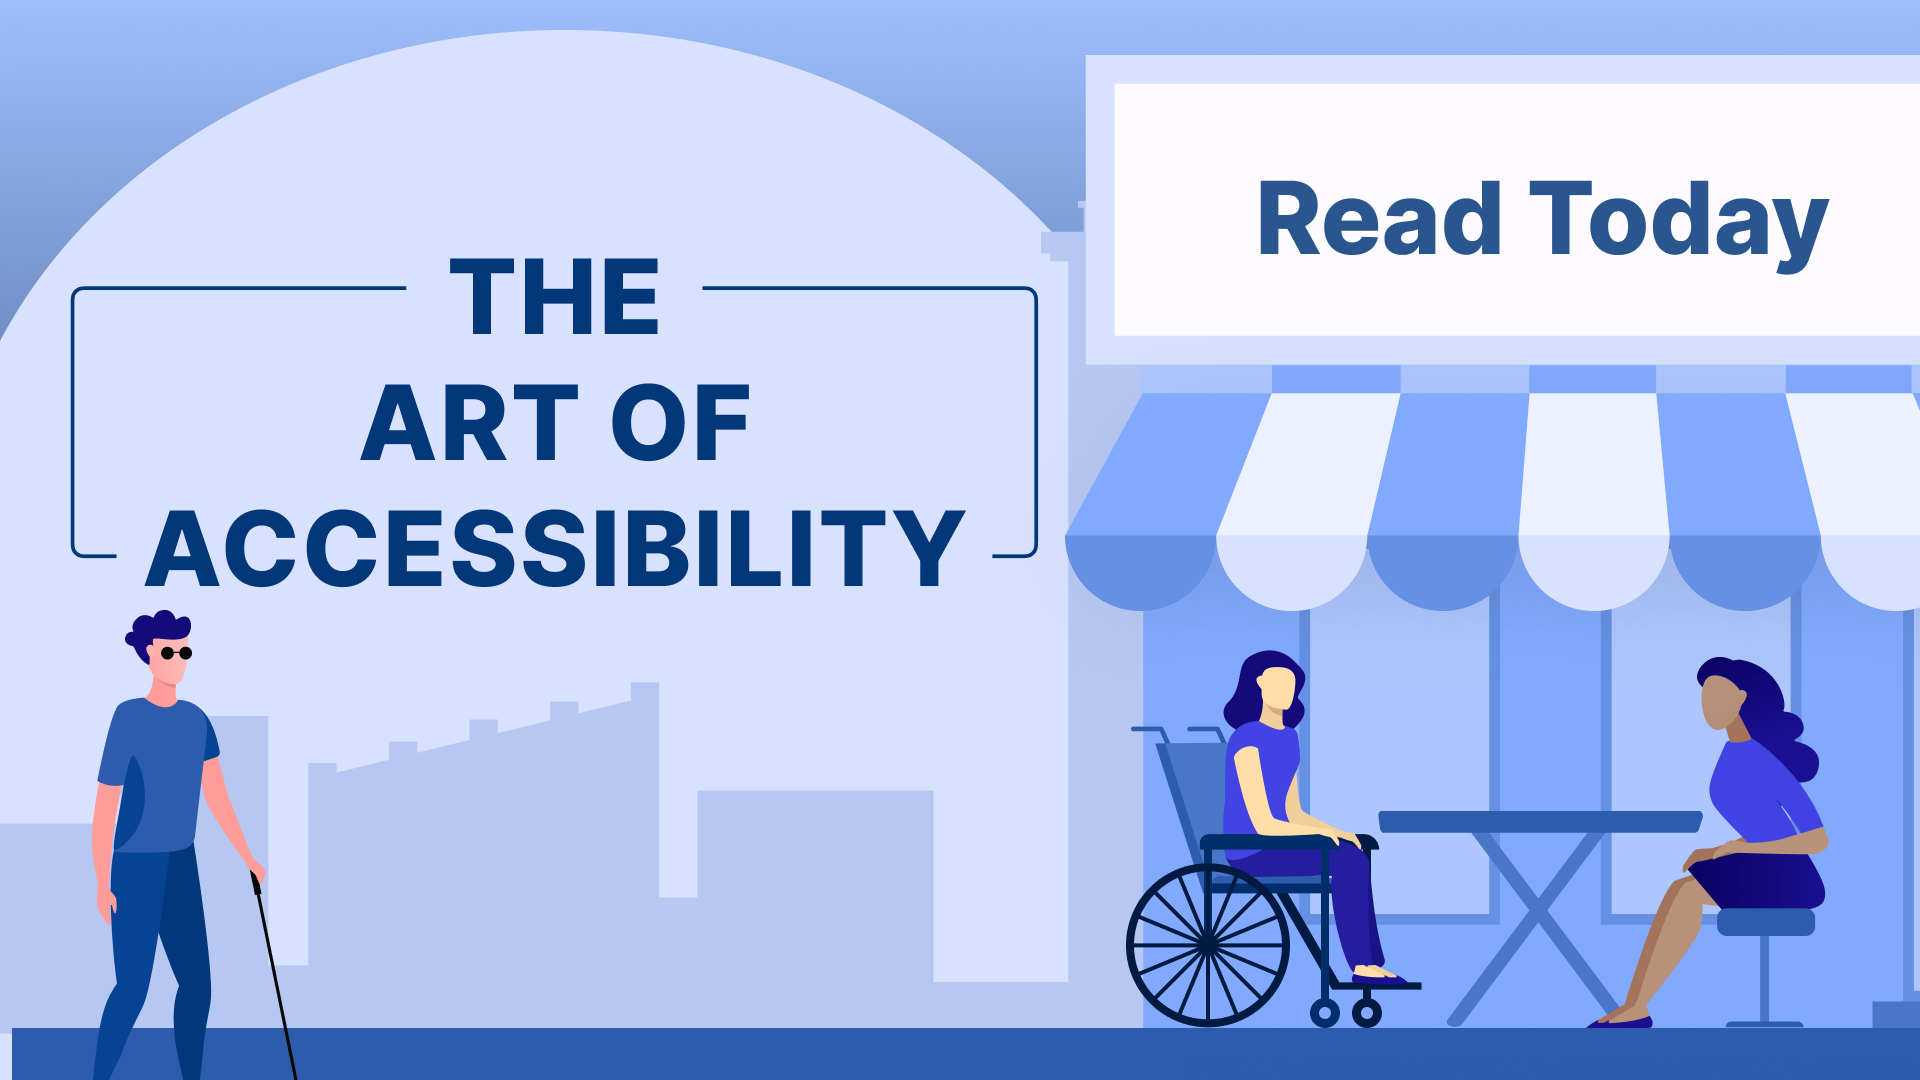
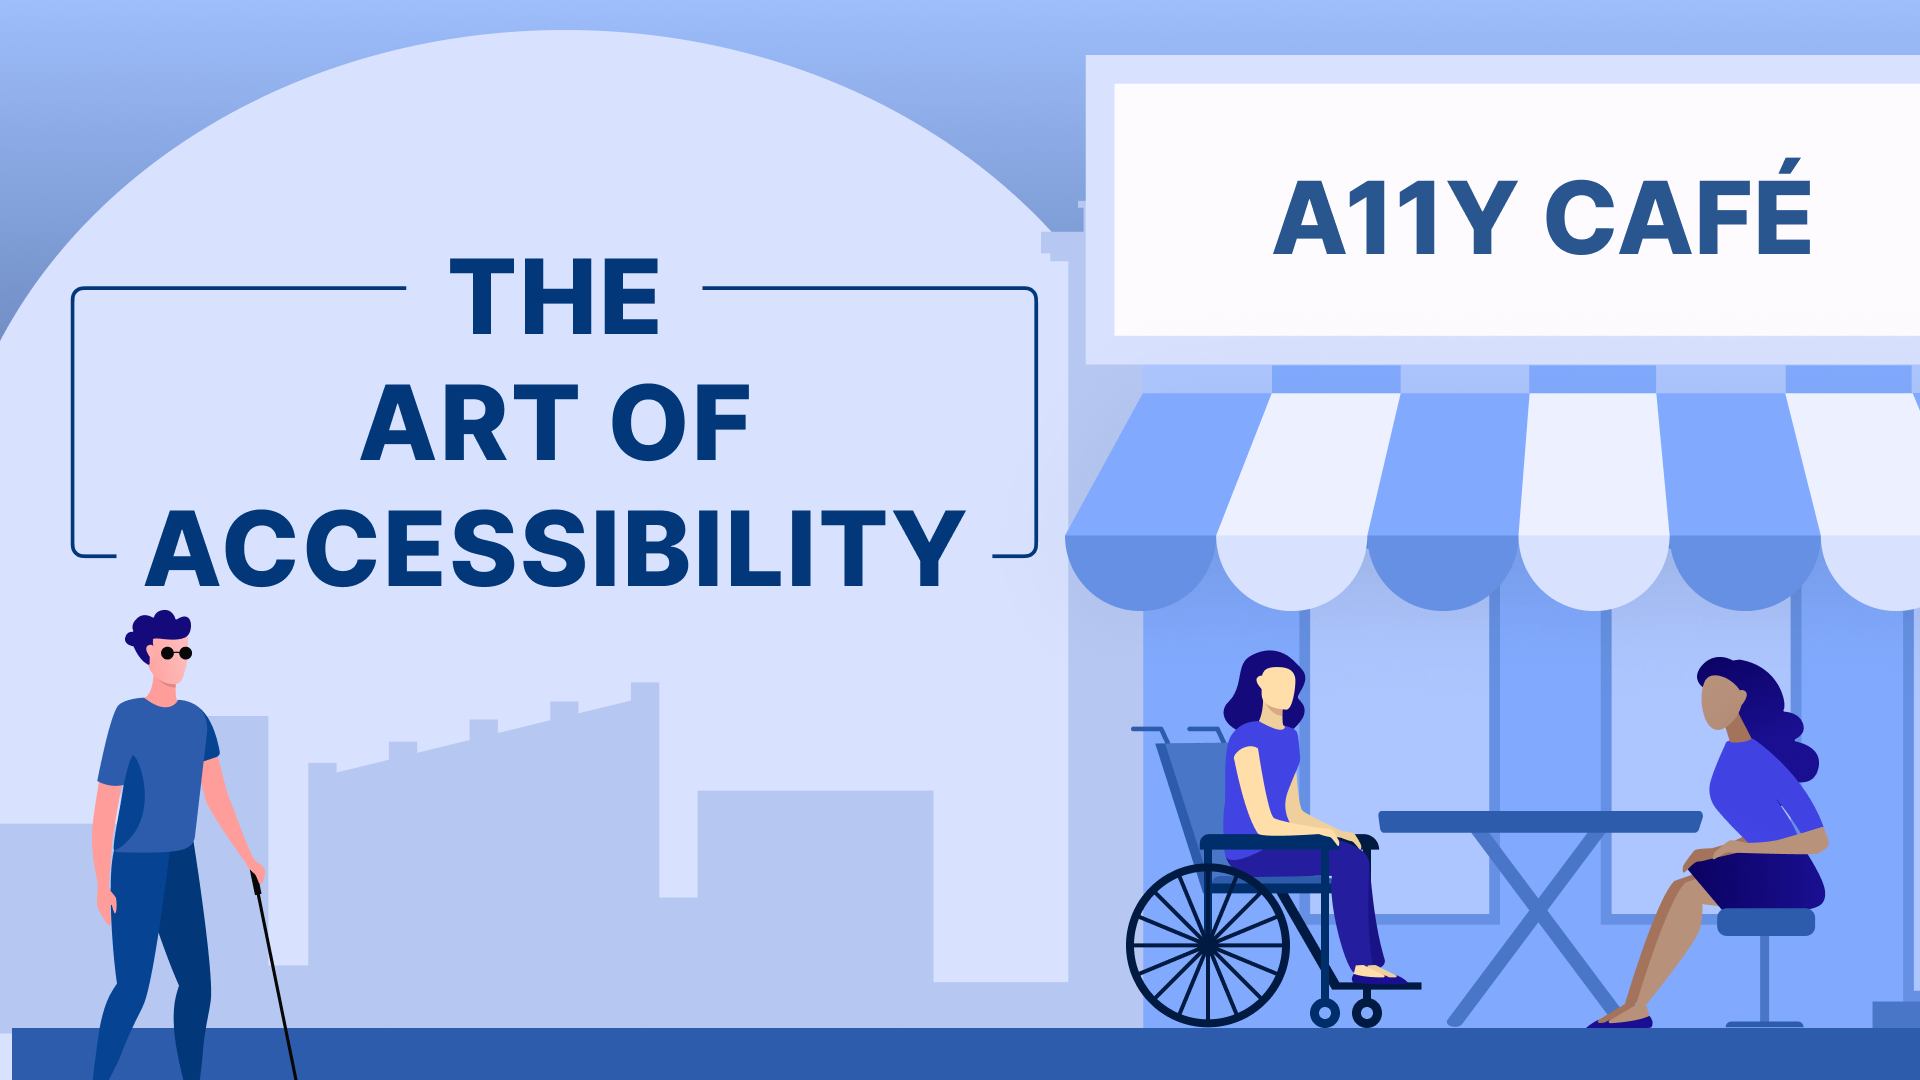
feat: update awards section

Changed region(s): [[0.6562, 0.1528, 0.9688, 0.275]]

diff --git a/src/styles/awards.module.scss b/src/styles/awards.module.scss
@@ -2,130 +2,101 @@
 
 .section {
   margin-bottom: var(--s5);
+  padding-block: var(--s3) var(--s4);
 }
 
-.panel {
+.shelf {
+  display: grid;
+  grid-template-columns: 140px minmax(0, 1fr);
+  align-items: center;
+  gap: var(--s5);
   padding: var(--s5);
-  border: 1px solid var(--line);
-  border-top: 3px solid var(--blue);
-  border-radius: var(--radius-lg);
   background: var(--white);
 }
 
-.heading {
-  display: flex;
-  align-items: center;
-  gap: var(--s3);
-  margin-bottom: var(--s4);
-}
-
-.heading h2 {
-  font-size: var(--title);
-  line-height: 1.25;
-  letter-spacing: -0.035em;
-}
-
-.medal {
-  display: grid;
-  flex: none;
-  place-items: center;
-  width: 48px;
-  height: 48px;
-  border-radius: 50%;
-  background: var(--paper);
-  color: var(--blue);
+.label {
+  margin: 0;
+  font-family: var(--serif);
+  font-size: 1.625rem;
+  font-style: italic;
+  font-weight: 450;
+  line-height: 1.2;
+  letter-spacing: -0.02em;
+  color: var(--muted);
 }
 
 .awards-list {
-  display: grid;
-  grid-template-columns: repeat(3, minmax(0, 1fr));
-  gap: var(--s4);
+  display: flex;
+  align-items: center;
+  justify-content: space-between;
+  gap: var(--s5);
   margin: 0;
   padding: 0;
   list-style: none;
 }
 
-.award {
+.entry {
   display: flex;
   align-items: center;
-  min-width: 0;
-  min-height: 96px;
-  padding: var(--s4);
-  border: 1px solid var(--line);
-  border-radius: var(--radius);
-  background: var(--paper);
-}
-
-.award h3 {
-  width: 100%;
-  font-size: var(--body);
-  font-weight: 600;
-  line-height: 1.4;
-  letter-spacing: -0.02em;
-}
-
-.award a {
-  display: flex;
-  align-items: center;
-  justify-content: space-between;
   gap: var(--s3);
-  min-height: 44px;
+  min-height: 48px;
+  color: var(--ink);
   text-decoration: none;
 }
 
-.award a > svg {
-  width: 20px;
-  height: 20px;
-  color: var(--blue);
+.mark {
+  flex: none;
+  width: 40px;
+  height: 40px;
+  object-fit: contain;
+}
+
+.name {
+  font-size: var(--text);
+  font-weight: 600;
+  line-height: 1.45;
+  text-wrap: balance;
+}
+
+.entry[href] .name {
+  text-decoration: underline;
+  text-decoration-color: var(--line);
+  text-underline-offset: 5px;
+  transition: text-decoration-color var(--quick) var(--ease);
 }
 
 @media (hover: hover) {
-  .award a:hover {
-    color: var(--blue);
-    text-decoration: underline;
-    text-underline-offset: 5px;
+  .entry[href]:hover .name {
+    text-decoration-color: var(--ink);
   }
 }
 
 @media (width <= breakpoints.$tablet) {
-  .awards-list {
-    gap: var(--s3);
+  .shelf {
+    grid-template-columns: minmax(0, 1fr);
+    gap: var(--s4);
   }
 
-  .award {
-    padding: var(--s3);
+  .awards-list {
+    display: grid;
+    grid-template-columns: minmax(0, 1fr) minmax(0, 1fr) minmax(0, 1.4fr);
+    gap: var(--s4);
   }
 }
 
 @media (width <= breakpoints.$mobile) {
-  .panel {
+  .shelf {
     padding: var(--s4);
-  }
-
-  .heading h2 {
-    font-size: var(--lead);
   }
 
   .awards-list {
     grid-template-columns: minmax(0, 1fr);
-  }
-
-  .award {
-    min-height: 80px;
+    gap: var(--s4);
   }
 }
 
 @media (width <= breakpoints.$small) {
-  .panel {
+  .shelf {
     padding: var(--s3);
-  }
-
-  .heading {
-    gap: var(--s2);
-  }
-
-  .medal {
-    width: 40px;
-    height: 40px;
   }
 }

diff --git a/public/assets/awards/README.md b/public/assets/awards/README.md
@@ -1,0 +1,7 @@
+# Award marks
+
+Official source assets retrieved on October 4, 2026:
+
+- `github.svg`: [GitHub mark from Primer Octicons](https://raw.githubusercontent.com/primer/octicons/main/icons/mark-github-24.svg). The MIT license from the [official Octicons repository](https://raw.githubusercontent.com/primer/octicons/main/LICENSE) is included in `github-LICENSE`.
+- `microsoft.svg`: [Microsoft symbol from Microsoft Learn](https://learn.microsoft.com/en-us/entra/identity-platform/media/howto-add-branding-in-apps/ms-symbollockup_mssymbol_19.svg).
+- `jetbrains.svg`: [JetBrains website icon](https://www.jetbrains.com/icon.svg).
